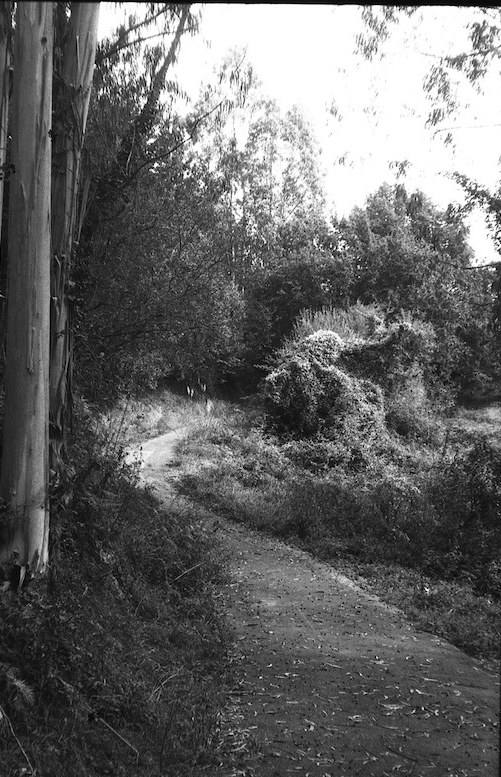
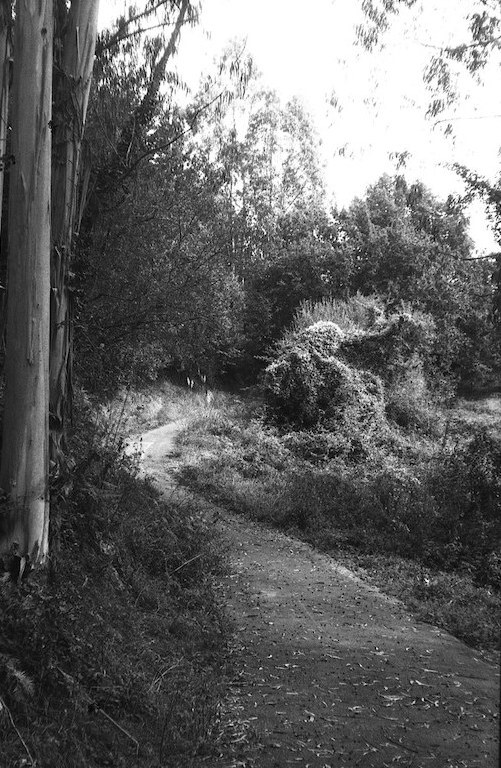
Prints: IR-58 top edge; initials sized to paper width so they stay in the margin
Claude-Session: https://claude.ai/code/session_01KwFkcjtweLDd6qYYzFRxw4

diff --git a/es/calima.html b/es/calima.html
@@ -27,7 +27,7 @@
 <link href="https://fonts.googleapis.com" rel="preconnect"/>
 <link crossorigin="" href="https://fonts.gstatic.com" rel="preconnect"/>
 <link href="https://fonts.googleapis.com/css2?family=Archivo:wght@400;500;700&amp;family=Hanken+Grotesk:wght@500;600&amp;family=Cormorant+Garamond:ital,wght@1,400;1,500&amp;display=swap" rel="stylesheet"/>
-<link href="../css/site.css?v=1875d65d" rel="stylesheet"/>
+<link href="../css/site.css?v=29c03aad" rel="stylesheet"/>
 <script>(function(){try{var t=localStorage.getItem("site-theme")}catch(e){}if(!t&&window.matchMedia&&matchMedia("(prefers-color-scheme: dark)").matches)t="dark";if(t==="dark")document.documentElement.setAttribute("data-theme","dark")})();</script>
 <script>window.ROOT='../';</script></head>
 <body class="calima-page">

diff --git a/es/prints.html b/es/prints.html
@@ -27,7 +27,7 @@
 <link href="https://fonts.googleapis.com" rel="preconnect"/>
 <link crossorigin="" href="https://fonts.gstatic.com" rel="preconnect"/>
 <link href="https://fonts.googleapis.com/css2?family=Archivo:wght@400;500;700&amp;family=Hanken+Grotesk:wght@500;600&amp;family=Cormorant+Garamond:ital,wght@1,400;1,500&amp;display=swap" rel="stylesheet"/>
-<link href="../css/site.css?v=1875d65d" rel="stylesheet"/>
+<link href="../css/site.css?v=29c03aad" rel="stylesheet"/>
 <script>(function(){try{var t=localStorage.getItem("site-theme")}catch(e){}if(!t&&window.matchMedia&&matchMedia("(prefers-color-scheme: dark)").matches)t="dark";if(t==="dark")document.documentElement.setAttribute("data-theme","dark")})();</script>
 <script>window.ROOT='../';</script></head>
 <body class="prints-page">

diff --git a/es/films.html b/es/films.html
@@ -27,7 +27,7 @@
 <link href="https://fonts.googleapis.com" rel="preconnect"/>
 <link crossorigin="" href="https://fonts.gstatic.com" rel="preconnect"/>
 <link href="https://fonts.googleapis.com/css2?family=Archivo:wght@400;500;700&amp;family=Hanken+Grotesk:wght@500;600&amp;family=Cormorant+Garamond:ital,wght@1,400;1,500&amp;display=swap" rel="stylesheet"/>
-<link href="../css/site.css?v=1875d65d" rel="stylesheet"/>
+<link href="../css/site.css?v=29c03aad" rel="stylesheet"/>
 <script>(function(){try{var t=localStorage.getItem("site-theme")}catch(e){}if(!t&&window.matchMedia&&matchMedia("(prefers-color-scheme: dark)").matches)t="dark";if(t==="dark")document.documentElement.setAttribute("data-theme","dark")})();</script>
 <script>window.ROOT='../';</script></head>
 <body class="films-page">

diff --git a/es/gallery.html b/es/gallery.html
@@ -27,7 +27,7 @@
 <link href="https://fonts.googleapis.com" rel="preconnect"/>
 <link crossorigin="" href="https://fonts.gstatic.com" rel="preconnect"/>
 <link href="https://fonts.googleapis.com/css2?family=Archivo:wght@400;500;700&amp;family=Hanken+Grotesk:wght@500;600&amp;family=Cormorant+Garamond:ital,wght@1,400;1,500&amp;display=swap" rel="stylesheet"/>
-<link href="../css/site.css?v=1875d65d" rel="stylesheet"/>
+<link href="../css/site.css?v=29c03aad" rel="stylesheet"/>
 <script>(function(){try{var t=localStorage.getItem("site-theme")}catch(e){}if(!t&&window.matchMedia&&matchMedia("(prefers-color-scheme: dark)").matches)t="dark";if(t==="dark")document.documentElement.setAttribute("data-theme","dark")})();</script>
 <script>window.ROOT='../';</script></head>
 <body class="photo-page">

diff --git a/es/index.html b/es/index.html
@@ -28,7 +28,7 @@
 <link href="https://fonts.googleapis.com" rel="preconnect"/>
 <link crossorigin="" href="https://fonts.gstatic.com" rel="preconnect"/>
 <link href="https://fonts.googleapis.com/css2?family=Archivo:wght@400;500;700&amp;family=Hanken+Grotesk:wght@500;600&amp;family=Cormorant+Garamond:ital,wght@1,400;1,500&amp;display=swap" rel="stylesheet"/>
-<link href="../css/site.css?v=1875d65d" rel="stylesheet"/>
+<link href="../css/site.css?v=29c03aad" rel="stylesheet"/>
 <script>(function(){try{var t=localStorage.getItem("site-theme")}catch(e){}if(!t&&window.matchMedia&&matchMedia("(prefers-color-scheme: dark)").matches)t="dark";if(t==="dark")document.documentElement.setAttribute("data-theme","dark")})();</script>
 <script>window.ROOT='../';</script></head>
 <body class="landing">

diff --git a/es/bienvenido-al-futuro.html b/es/bienvenido-al-futuro.html
@@ -27,7 +27,7 @@
 <link href="https://fonts.googleapis.com" rel="preconnect"/>
 <link crossorigin="" href="https://fonts.gstatic.com" rel="preconnect"/>
 <link href="https://fonts.googleapis.com/css2?family=Archivo:wght@400;500;700&amp;family=Hanken+Grotesk:wght@500;600&amp;family=Cormorant+Garamond:ital,wght@1,400;1,500&amp;display=swap" rel="stylesheet"/>
-<link href="../css/site.css?v=1875d65d" rel="stylesheet"/>
+<link href="../css/site.css?v=29c03aad" rel="stylesheet"/>
 <script>(function(){try{var t=localStorage.getItem("site-theme")}catch(e){}if(!t&&window.matchMedia&&matchMedia("(prefers-color-scheme: dark)").matches)t="dark";if(t==="dark")document.documentElement.setAttribute("data-theme","dark")})();</script>
 <script>window.ROOT='../';</script></head>
 <body>

diff --git a/es/contact.html b/es/contact.html
@@ -28,7 +28,7 @@
 <link href="https://fonts.googleapis.com" rel="preconnect"/>
 <link crossorigin="" href="https://fonts.gstatic.com" rel="preconnect"/>
 <link href="https://fonts.googleapis.com/css2?family=Archivo:wght@400;500;700&amp;family=Hanken+Grotesk:wght@500;600&amp;family=Cormorant+Garamond:ital,wght@1,400;1,500&amp;display=swap" rel="stylesheet"/>
-<link href="../css/site.css?v=1875d65d" rel="stylesheet"/>
+<link href="../css/site.css?v=29c03aad" rel="stylesheet"/>
 <script>(function(){try{var t=localStorage.getItem("site-theme")}catch(e){}if(!t&&window.matchMedia&&matchMedia("(prefers-color-scheme: dark)").matches)t="dark";if(t==="dark")document.documentElement.setAttribute("data-theme","dark")})();</script>
 <script>window.ROOT='../';</script></head>
 <body>

diff --git a/es/dos-amigos.html b/es/dos-amigos.html
@@ -27,7 +27,7 @@
 <link href="https://fonts.googleapis.com" rel="preconnect"/>
 <link crossorigin="" href="https://fonts.gstatic.com" rel="preconnect"/>
 <link href="https://fonts.googleapis.com/css2?family=Archivo:wght@400;500;700&amp;family=Hanken+Grotesk:wght@500;600&amp;family=Cormorant+Garamond:ital,wght@1,400;1,500&amp;display=swap" rel="stylesheet"/>
-<link href="../css/site.css?v=1875d65d" rel="stylesheet"/>
+<link href="../css/site.css?v=29c03aad" rel="stylesheet"/>
 <script>(function(){try{var t=localStorage.getItem("site-theme")}catch(e){}if(!t&&window.matchMedia&&matchMedia("(prefers-color-scheme: dark)").matches)t="dark";if(t==="dark")document.documentElement.setAttribute("data-theme","dark")})();</script>
 <script>window.ROOT='../';</script></head>
 <body>

diff --git a/es/eurosocial.html b/es/eurosocial.html
@@ -27,7 +27,7 @@
 <link href="https://fonts.googleapis.com" rel="preconnect"/>
 <link crossorigin="" href="https://fonts.gstatic.com" rel="preconnect"/>
 <link href="https://fonts.googleapis.com/css2?family=Archivo:wght@400;500;700&amp;family=Hanken+Grotesk:wght@500;600&amp;family=Cormorant+Garamond:ital,wght@1,400;1,500&amp;display=swap" rel="stylesheet"/>
-<link href="../css/site.css?v=1875d65d" rel="stylesheet"/>
+<link href="../css/site.css?v=29c03aad" rel="stylesheet"/>
 <script>(function(){try{var t=localStorage.getItem("site-theme")}catch(e){}if(!t&&window.matchMedia&&matchMedia("(prefers-color-scheme: dark)").matches)t="dark";if(t==="dark")document.documentElement.setAttribute("data-theme","dark")})();</script>
 <script>window.ROOT='../';</script></head>
 <body>

diff --git a/es/free-tour.html b/es/free-tour.html
@@ -27,7 +27,7 @@
 <link href="https://fonts.googleapis.com" rel="preconnect"/>
 <link crossorigin="" href="https://fonts.gstatic.com" rel="preconnect"/>
 <link href="https://fonts.googleapis.com/css2?family=Archivo:wght@400;500;700&amp;family=Hanken+Grotesk:wght@500;600&amp;family=Cormorant+Garamond:ital,wght@1,400;1,500&amp;display=swap" rel="stylesheet"/>
-<link href="../css/site.css?v=1875d65d" rel="stylesheet"/>
+<link href="../css/site.css?v=29c03aad" rel="stylesheet"/>
 <script>(function(){try{var t=localStorage.getItem("site-theme")}catch(e){}if(!t&&window.matchMedia&&matchMedia("(prefers-color-scheme: dark)").matches)t="dark";if(t==="dark")document.documentElement.setAttribute("data-theme","dark")})();</script>
 <script>window.ROOT='../';</script></head>
 <body>

diff --git a/es/nueva-vida.html b/es/nueva-vida.html
@@ -27,7 +27,7 @@
 <link href="https://fonts.googleapis.com" rel="preconnect"/>
 <link crossorigin="" href="https://fonts.gstatic.com" rel="preconnect"/>
 <link href="https://fonts.googleapis.com/css2?family=Archivo:wght@400;500;700&amp;family=Hanken+Grotesk:wght@500;600&amp;family=Cormorant+Garamond:ital,wght@1,400;1,500&amp;display=swap" rel="stylesheet"/>
-<link href="../css/site.css?v=1875d65d" rel="stylesheet"/>
+<link href="../css/site.css?v=29c03aad" rel="stylesheet"/>
 <script>(function(){try{var t=localStorage.getItem("site-theme")}catch(e){}if(!t&&window.matchMedia&&matchMedia("(prefers-color-scheme: dark)").matches)t="dark";if(t==="dark")document.documentElement.setAttribute("data-theme","dark")})();</script>
 <script>window.ROOT='../';</script></head>
 <body>

diff --git a/es/tierra-de-nadie.html b/es/tierra-de-nadie.html
@@ -27,7 +27,7 @@
 <link href="https://fonts.googleapis.com" rel="preconnect"/>
 <link crossorigin="" href="https://fonts.gstatic.com" rel="preconnect"/>
 <link href="https://fonts.googleapis.com/css2?family=Archivo:wght@400;500;700&amp;family=Hanken+Grotesk:wght@500;600&amp;family=Cormorant+Garamond:ital,wght@1,400;1,500&amp;display=swap" rel="stylesheet"/>
-<link href="../css/site.css?v=1875d65d" rel="stylesheet"/>
+<link href="../css/site.css?v=29c03aad" rel="stylesheet"/>
 <script>(function(){try{var t=localStorage.getItem("site-theme")}catch(e){}if(!t&&window.matchMedia&&matchMedia("(prefers-color-scheme: dark)").matches)t="dark";if(t==="dark")document.documentElement.setAttribute("data-theme","dark")})();</script>
 <script>window.ROOT='../';</script></head>
 <body>
